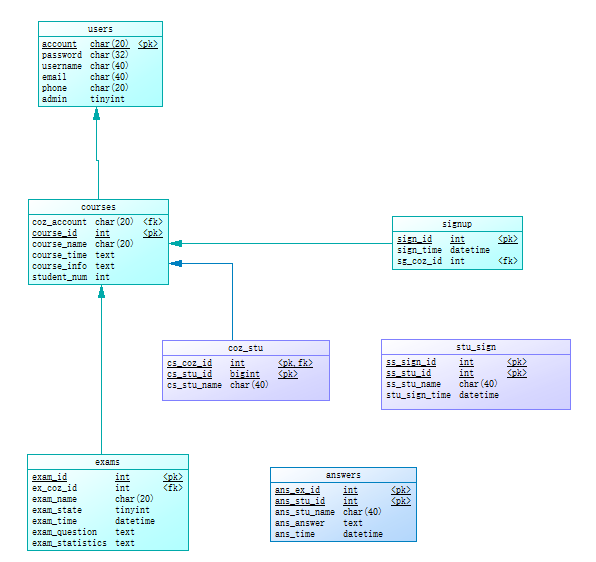
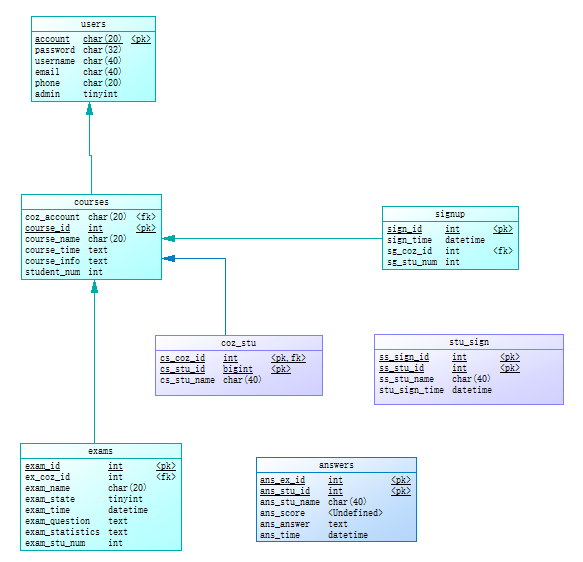
Fixes #16

Changed region(s): [[0.0309, 0.0302, 0.8954, 0.9982], [0.6175, 0.5747, 0.988, 0.7562], [0.4322, 0.7865, 0.741, 0.968]]

diff --git a/dao/dao.js b/dao/dao.js
@@ -3,7 +3,7 @@ var pool  = mysql.createPool({
     host: 'classhelper.ml',
     user: 'root',
     password: 'sysusdcs',
-    database: 'test',
+    database: 'beta',
     charset: 'utf8mb4_unicode_ci'
 });
 
@@ -315,11 +315,9 @@ exports.getexambyid = function(exam_id) {
  */
 exports.getexambyaccount = function(account) {
     var sql = "select course_id, exam_id, exam_name, course_name as name, "
-            + "count(ans_ex_id) as exam_num, student_num as stu_num "
-            + "from exams "
-            + "inner join courses on ex_coz_id=course_id "
-            + "left join answers on ans_ex_id=exam_id "
-            + "where coz_account=? "
+            + "exam_stu_num as exam_num, student_num as stu_num "
+            + "from exams, courses "
+            + "where coz_account=? and ex_coz_id=course_id "
             + "group by exam_id "
             + "order by exam_time desc";
     return pool.query(sql, account);
@@ -451,11 +449,9 @@ exports.getsignbyid = function(sign_id) {
 exports.getsignbyaccount = function(account) {
     var sql = "select sign_id, course_id, course_name as name, "
             + "sign_time as time, "
-            + "count(ss_sign_id) as sign_num, student_num as stu_num "
-            + "from signup "
-            + "inner join courses on sg_coz_id=course_id "
-            + "left join stu_sign on sign_id=ss_sign_id "
-            + "where coz_account=? "
+            + "sg_stu_num as sign_num, student_num as stu_num "
+            + "from signup, courses "
+            + "where sg_coz_id=course_id and coz_account=? "
             + "group by sign_id "
             + "order by time desc";
     return pool.query(sql, account);

diff --git a/dao/test.js b/dao/test.js
@@ -1,14 +1,14 @@
 var dao = require('./dao.js');
 var data = require('./data.js');
 
-dao.checkstudent(15332020, 29, '张增辉')
-.then(function(doc) {
-    console.log(doc);
-}).catch(function(err) {
-    console.log(err);
-});
+// dao.checkstudent(15332020, 29, '张增辉')
+// .then(function(doc) {
+//     console.log(doc);
+// }).catch(function(err) {
+//     console.log(err);
+// });
 
-// dao.addanswer(12, 1, 1, 0, 'ans')
+// dao.addanswer(1, 1, 1, 0, 'ans')
 // .then(function(doc) {
 //     console.log(doc);
 // }).catch(function(err) {
@@ -83,7 +83,7 @@ dao.checkstudent(15332020, 29, '张增辉')
     // }).catch(function(err) {
     //     console.log(err);
     // });
-    // dao.addexam(8, 'exam', "{'num': 0}")
+    // dao.addexam(1, 'exam', "{'num': 0}")
     // .then(function(doc) {
     //     console.log(doc);
     // }).catch(function(err) {
@@ -123,7 +123,7 @@ dao.checkstudent(15332020, 29, '张增辉')
     //     console.log(err);
     // });
     //     console.log(signid);
-    // dao.studentsign(1, 45, '14331024', '陈俊贤')
+    // dao.studentsign(1, 1, '14331024', '陈俊贤')
     // .then(function(doc) {
     //     console.log(doc);
     // }).catch(function(err) {
